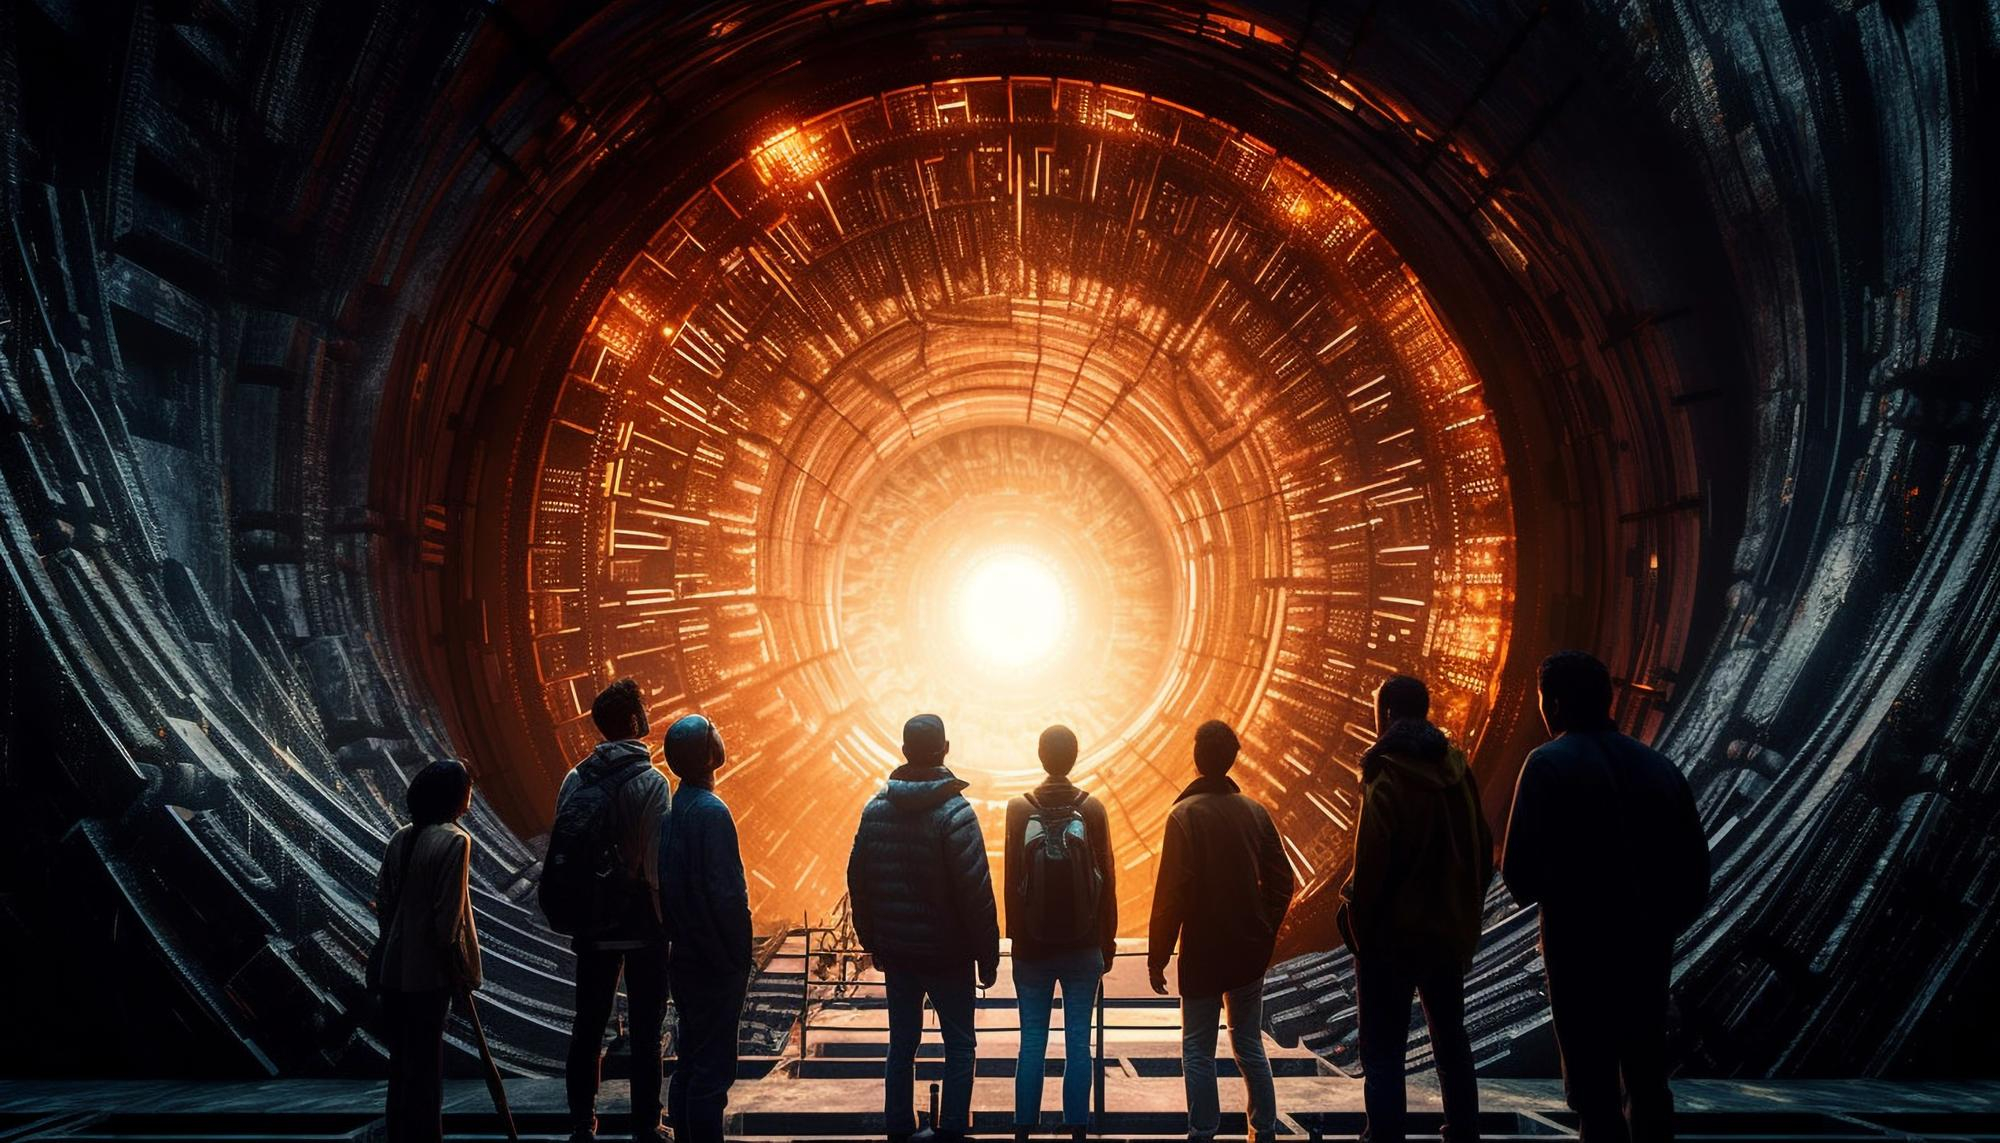
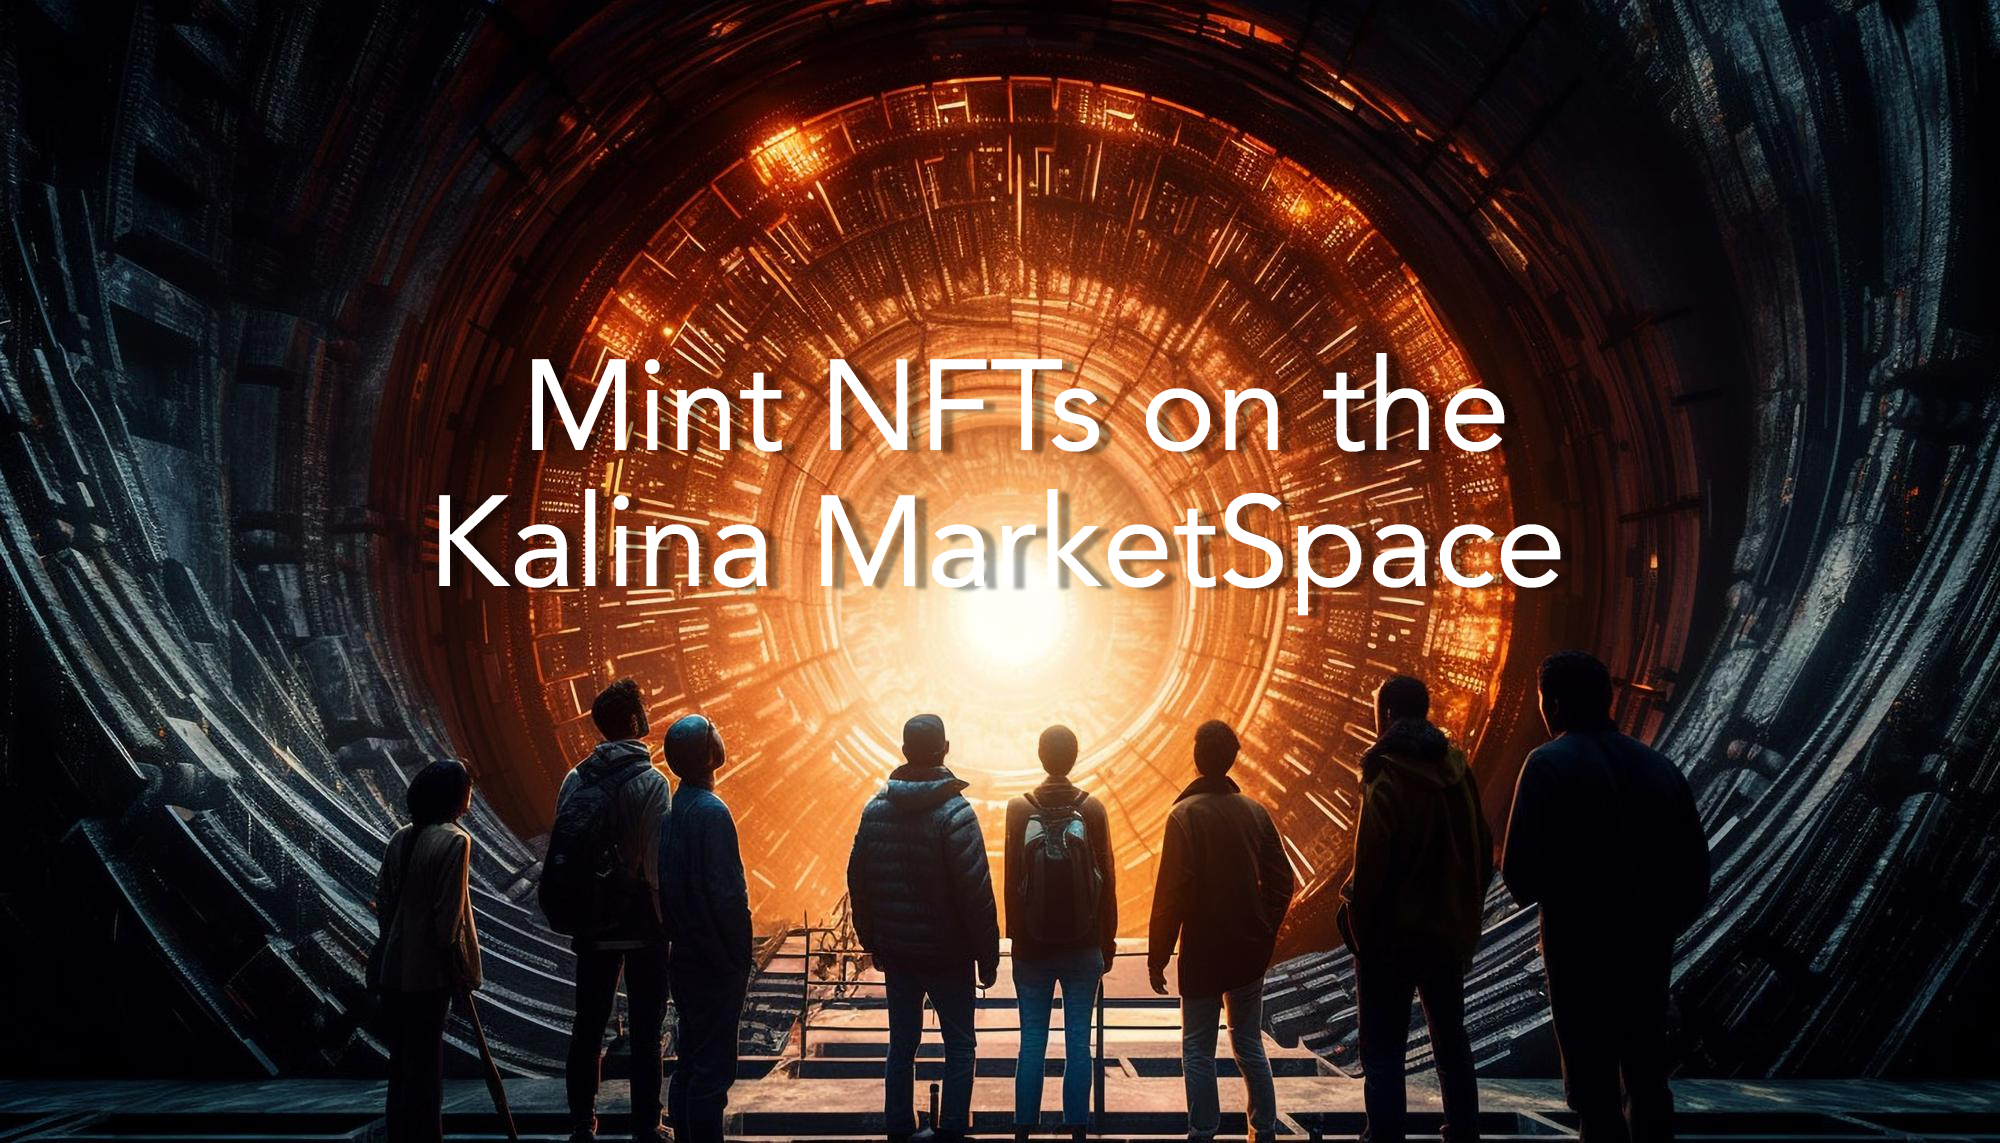
Bug fixing

Changed region(s): [[0.217, 0.4287, 0.806, 0.5512], [0.248, 0.3062, 0.775, 0.3981]]

diff --git a/src/index.js b/src/index.js
@@ -12,13 +12,6 @@ root.render(
   </React.StrictMode>
 );
 
-// // Set the URL to the desired address
-// const newAddress = 'https://blockchain.eldonhernandez.com/KalinaPunks';
-
-// // Use the following code to navigate to the new address
-// window.location.href = newAddress;
-
-
 // If you want to start measuring performance in your app, pass a function
 // to log results (for example: reportWebVitals(console.log))
 // or send to an analytics endpoint. Learn more: https://bit.ly/CRA-vitals

diff --git a/scripts/deploy.js b/scripts/deploy.js
@@ -12,7 +12,7 @@ async function main() {
   const COST = ethers.utils.parseUnits('10', 'ether')
   const MAX_SUPPLY = 25
   const NFT_MINT_DATE = (Date.now() + 60000).toString().slice(0, 10)
-  const IPFS_METADATA_URI = 'ipfs://QmQ2jnDYecFhrf3asEWjyjZRX1pZSsNWG3qHzmNDvXa9qg/'
+  const IPFS_METADATA_URI = 'ipfs://bafybeibzbvazpuh55f67cnoabsusjzwwp545stdzxtkhd3wyc26oauv5ma/'
 
   // Deploy NFT
   const NFT = await hre.ethers.getContractFactory('NFT')

diff --git a/src/components/App.js b/src/components/App.js
@@ -82,8 +82,6 @@ function App() {
       <img src={Hero} style={{ borderRadius: '50px' }} alt="Kalina Marketspace Hero"/>
       </Row>
       
-      <h1 className='my-5 text-center text-white'>Mint NFTs on the<br />Kalina Marketspace</h1>
-      <h2 className='py-2 mx-3 text-white'>Top Collection this Week</h2>
       {isLoading ? (
         <Loading />
       ) : (
